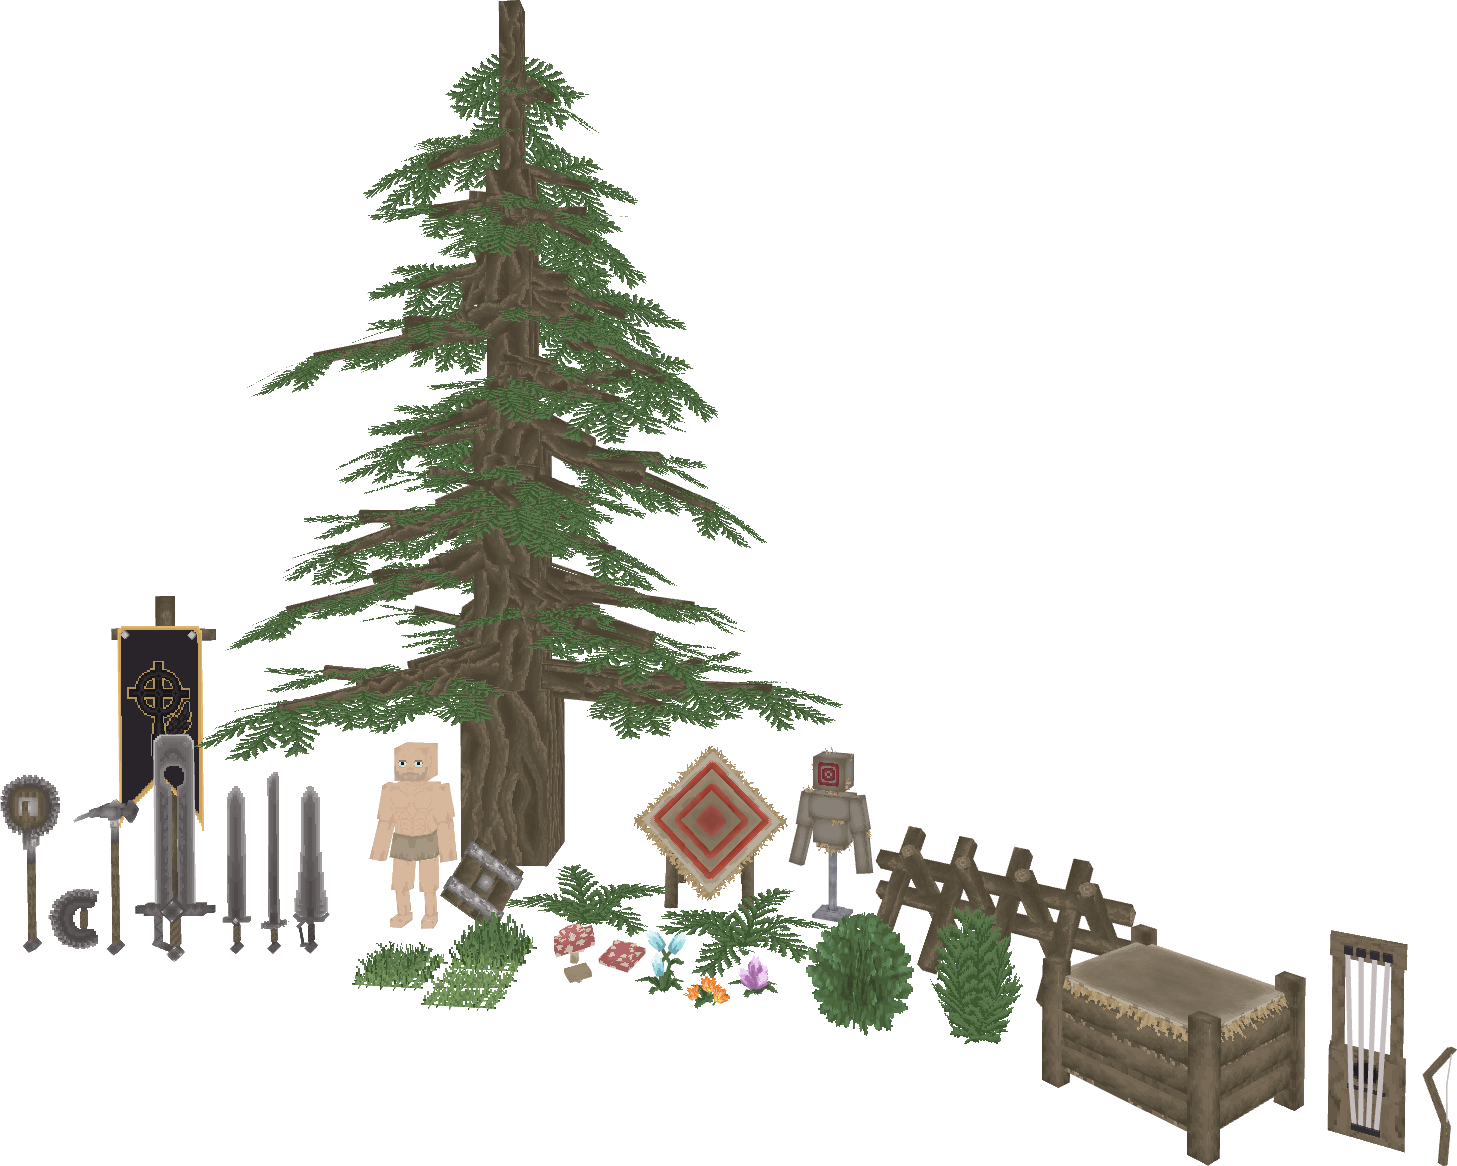
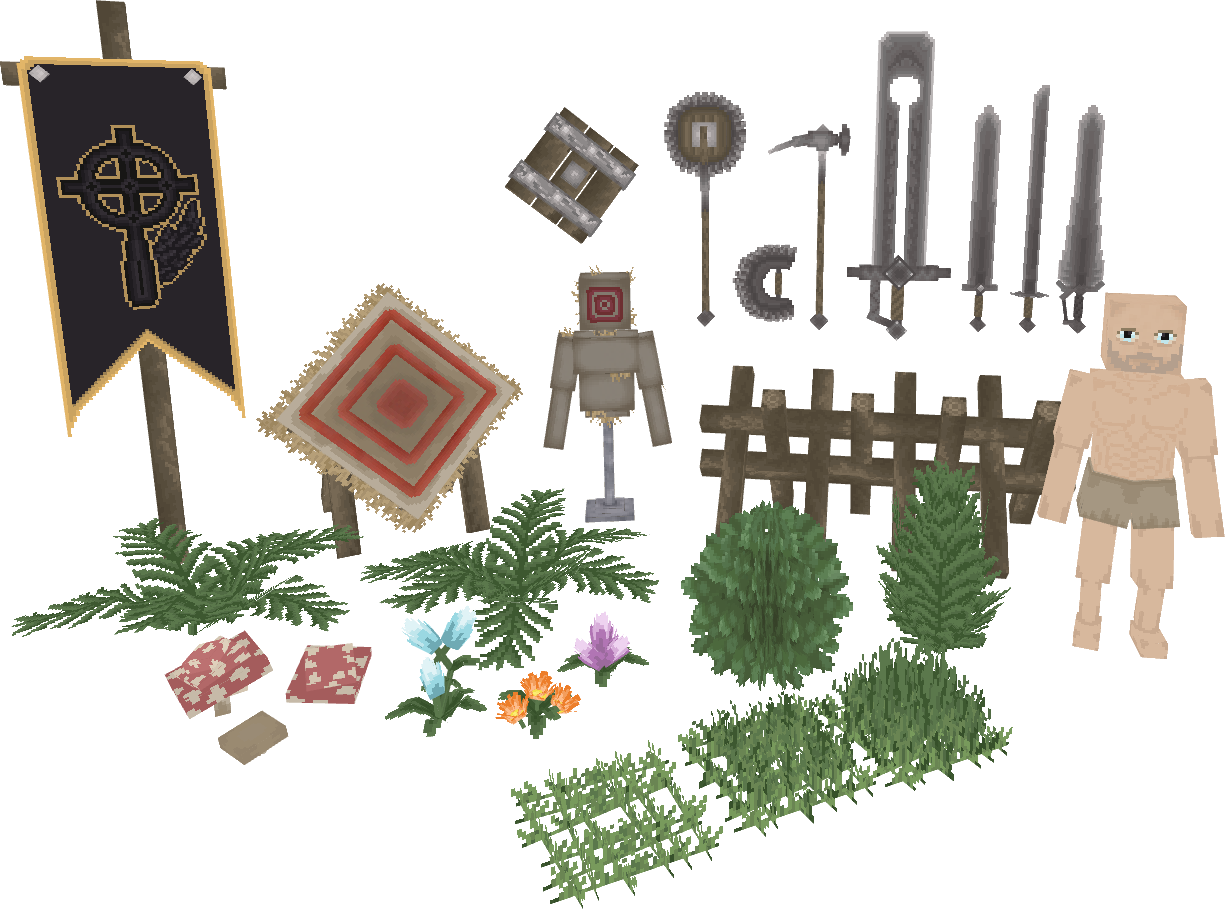
Reconfig - carousel gone -> images to waterfall

diff --git a/main.js b/main.js
@@ -57,16 +57,7 @@ document.querySelector('#app').innerHTML = `
         <div id="bio-container">
             <div id="left-bio">
                 <img src="./images/BlockBench/Ravens-Gate_Logo.png"/>
-                <div id="left-bio-img-carousel">
-                    <img src="./images/BlockBench/FullCollection.png"/>
-                    <img src="./images/BlockBench/CharBaseV3.png"/>
-                    <img src="./images/BlockBench/Foliage.png"/>
-                    <img src="./images/BlockBench/Instruments.png"/>
-                    <img src="./images/BlockBench/PineTree.png"/>
-                    <img src="./images/BlockBench/RavensCross.png"/>
-                    <img src="./images/BlockBench/Target.png"/>
-                    <img src="./images/BlockBench/Weapons.png"/>
-                </div>
+                <img src="./images/BlockBench/FullCollection_Ravens-Gate.png"/>
             </div>
             <div id="right-bio">
                 <ul id="bio-list">
@@ -101,6 +92,27 @@ document.querySelector('#app').innerHTML = `
         </div>
         <div class="waterfall-container">
             <div class="waterfall">
+                <div class="box Hidden-Ver">
+                    <img src="./images/BlockBench/CharBaseV3.png"/>
+                </div>
+                <div class="box Hidden-Ver">
+                    <img src="./images/BlockBench/Foliage.png"/>
+                </div>
+                <div class="box Hidden-Ver">
+                    <img src="./images/BlockBench/Instruments.png"/>
+                </div>
+                <div class="box Hidden-Ver">
+                    <img src="./images/BlockBench/PineTree.png"/>
+                </div>
+                <div class="box Hidden-Ver">
+                    <img src="./images/BlockBench/RavensCross.png"/>
+                </div>
+                <div class="box Hidden-Ver">
+                    <img src="./images/BlockBench/Target.png"/>
+                </div>
+                <div class="box Hidden-Ver">
+                    <img src="./images/BlockBench/Weapons.png"/>
+                </div>
                 <div class="box Hidden-Ver">
                     <img src="./images/BlockBench/BlessedBlade.png"/>
                 </div>
